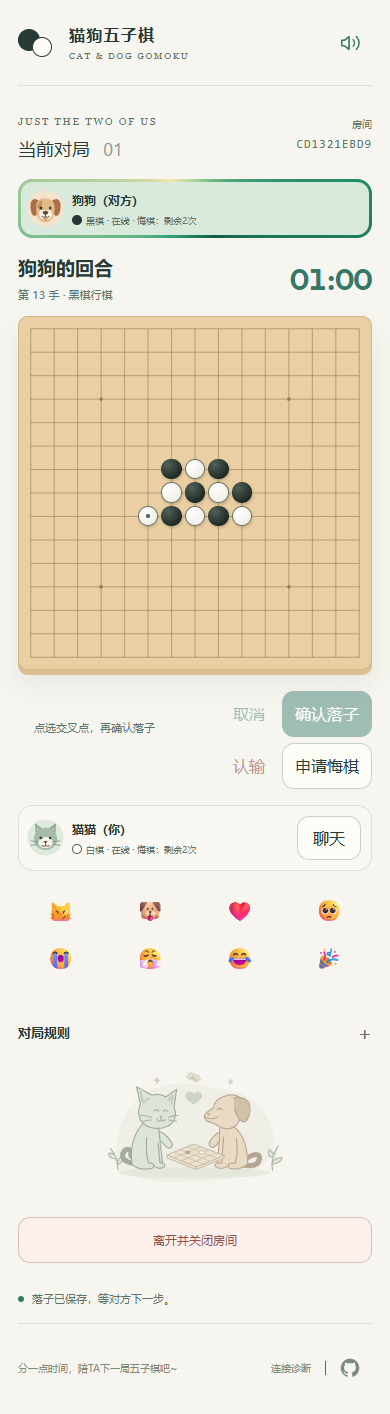
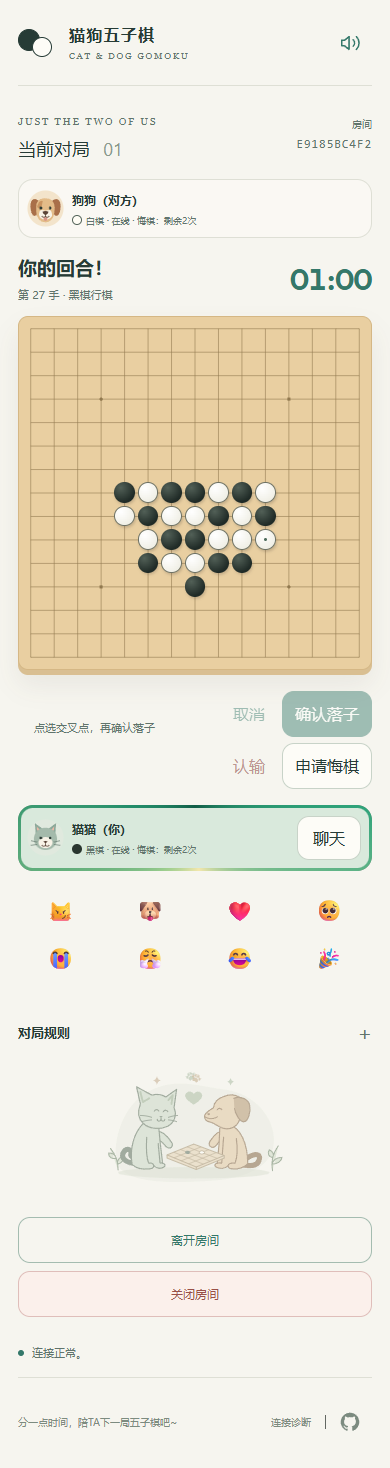
feat: separate leaving and closing rooms

diff --git a/tests/game-e2e/game.spec.ts b/tests/game-e2e/game.spec.ts
@@ -135,6 +135,48 @@ async function play(page: Page, x: number, y: number, touch = false) {
 
 async function finish(contexts: BrowserContext[]) { await Promise.all(contexts.map(c => c.close())); }
 
+test('leaving returns home without closing and closing still requires confirmation', async ({ browser }) => {
+  test.skip(!process.env.GOMOKU_LOCAL_SQL);
+  const { contexts, a, b, errors, state } = await pair(browser);
+  try {
+    const code = await a.locator('#roomCode').textContent();
+    const commands: string[] = [];
+    a.on('request', request => {
+      if (request.url().endsWith('/rpc/gomoku_command')) commands.push(request.postDataJSON().p_action as string);
+    });
+    await play(state().turnSeat === state().seat ? a : b, 7, 7);
+    await expect(b.locator('#board .stone:not(.preview)')).toHaveCount(1);
+    await a.screenshot({ path: 'test-results/screenshots/room-buttons-desktop.png', fullPage: true });
+    await b.screenshot({ path: 'test-results/screenshots/room-buttons-phone.png', fullPage: true });
+    await a.locator('#leave').click();
+    await expect(a.locator('#home')).toBeVisible();
+    await expect(a.locator('#leaveDialog')).not.toBeVisible();
+    await expect(a.locator('#resume')).toBeVisible();
+    await a.reload();
+    await expect(a.locator('#home')).toBeVisible();
+    await a.locator('#resume').click();
+    await expect(a.locator('#roomCode')).toHaveText(code!);
+    await expect(a.locator('#board .stone:not(.preview)')).toHaveCount(1);
+    await expect(b.locator('#gameStatus')).not.toHaveText('房间已关闭');
+    expect(commands).not.toContain('leave');
+    await a.locator('#closeRoom').click();
+    await expect(a.locator('#leaveDialog')).toBeVisible();
+    await a.locator('#stay').click();
+    await expect(a.locator('#leaveDialog')).not.toBeVisible();
+    expect(commands).not.toContain('leave');
+    await a.locator('#closeRoom').click();
+    await a.locator('#confirmLeave').click();
+    await expect(a.locator('#gameStatus')).toHaveText('房间已关闭');
+    await expect(b.locator('#gameStatus')).toHaveText('房间已关闭');
+    expect(commands.filter(action => action === 'leave')).toHaveLength(1);
+    for (const page of [a, b]) {
+      await expect(page.locator('#leave')).toBeHidden();
+      await expect(page.locator('#closeRoom')).toBeHidden();
+    }
+    expect(errors).toEqual([]);
+  } finally { await finish(contexts); }
+});
+
 test('home supports narrow phones and desktop without overflow', async ({ page }) => {
   await enter(page);
   const icon = page.locator('link[rel="icon"]');
@@ -267,7 +309,7 @@ test('invitation follows presence while links and room codes preserve assigned i
     await expect(a.locator('#invitePanel')).toBeHidden();
     await resizeRoom(a, {width:390,height:1000});
     await a.screenshot({path:'test-results/screenshots/invitation-online-mobile.png',fullPage:true});
-    await a.locator('#leave').click(); await a.locator('#confirmLeave').click();
+    await a.locator('#closeRoom').click(); await a.locator('#confirmLeave').click();
     await expect(a.locator('#gameStatus')).toHaveText('房间已关闭');
     await expect(a.locator('#invitePanel')).toBeHidden();
     await b.reload();
@@ -355,7 +397,7 @@ test('two players complete a real game, approve entry, recover a lost acknowledg
     try { await enter(c, `./${new URL(a.url()).hash}`); await expect(c.locator('#notice')).toContainText('已有两位'); }
     finally { await outsider.close(); }
     expect(game.errors).toEqual([]);
-    await a.locator('#leave').click(); await a.locator('#confirmLeave').click();
+    await a.locator('#closeRoom').click(); await a.locator('#confirmLeave').click();
     await expect(b.locator('#gameStatus')).toHaveText('房间已关闭');
     for (const p of [a, b]) expect(await p.evaluate(() => localStorage.getItem('gomoku.room'))).toBeNull();
     let closedRequests = 0;
@@ -521,7 +563,7 @@ test('invalid rooms stop requesting and withdrawn or rejected applications stay 
     release(); await b.unrouteAll({ behavior: 'wait' });
     await expect(b.locator('#pendingPanel')).toBeHidden(); await expect(a.locator('#applicationPanel')).toBeHidden();
     requests = 0; await b.waitForTimeout(6500); expect(requests).toBe(0);
-    await a.locator('#leave').click(); await a.locator('#confirmLeave').click();
+    await a.locator('#closeRoom').click(); await a.locator('#confirmLeave').click();
     expect(errors).toEqual([]);
   } finally { await finish(contexts); }
 });
@@ -640,7 +682,7 @@ test('mouse previews and moves only once after confirmation and server acknowled
     await p.locator('#previousReactions').click();
     await expect.poll(() => reactions.evaluate(node => node.scrollLeft)).toBe(0);
     await p.screenshot({ path:'test-results/screenshots/game-desktop-actions.png', fullPage:true });
-    await p.locator('#leave').click();
+    await p.locator('#closeRoom').click();
     await expect(p.locator('#leaveDialog')).toBeVisible();
     await p.locator('#stay').click();
     await expect(p.locator('#leaveDialog')).not.toBeVisible();

diff --git a/src/game/room-layout.css b/src/game/room-layout.css
@@ -9,6 +9,9 @@
 #asideActivity:not(:has(.aside-block, .replay-area, .rules-block)), #asideExtras:empty,
 #tabletNotices:empty { display: none; }
 #asideCore { display: contents; }
+#closeRoom { display: block; margin-top: 8px; }
+#leave { color: var(--green); border-color: #a4bcb0; background: transparent; }
+#leave:hover:not(:disabled) { background: var(--paper); border-color: #88a796; }
 
 @media (min-width: 600px) {
   .room-layout { --room-layout: stacked; }
@@ -48,13 +51,15 @@
 #room:not([data-layout="phone"]) .replay-row { justify-content: flex-end; }
 
 #room[data-layout="wide"] {
+  --room-action-width: 80px;
   --aside-gap: 8px;
   --panel-space: 16px;
   --board-size: min(620px, calc(100vw - 352px), max(300px, calc(100dvh - 178px)));
   grid-template-columns: var(--board-size) minmax(0, 1fr);
-  row-gap: 12px;
+  row-gap: 14px;
 }
-#room[data-layout="wide"] .room-aside { display: flex; flex-direction: column; gap: 12px; }
+#room[data-layout="wide"] .room-aside { grid-column: 2; grid-row: 1; display: flex; flex-direction: column; gap: 12px; }
+#room[data-layout="wide"] .room-aside > #leave { margin-top: -3px; }
 #room[data-layout="wide"] #asideCore { height: calc(var(--board-size) + var(--heading-height) + var(--heading-gap) + var(--board-shadow)); display: flex; flex-direction: column; gap: var(--aside-gap); }
 #room[data-layout="wide"] #asideTurn { flex-shrink: 0; }
 #room[data-layout="wide"] .turn-bar { margin: 0; }
@@ -76,7 +81,10 @@
 #room[data-layout="wide"] .move-controls > .action-cluster { gap: 12px; }
 #room[data-layout="wide"] .action-cluster #undo, #room[data-layout="wide"] .action-cluster #resign { grid-row: 1; }
 #room[data-layout="wide"] .action-cluster #confirm, #room[data-layout="wide"] .action-cluster #cancel { grid-row: 2; }
-#room[data-layout="wide"] .leave { align-self: flex-end; margin: 0; min-height: 44px; }
+#room[data-layout="wide"] .leave { align-self: flex-end; margin: 0; min-height: 44px; width: var(--room-action-width); translate: 0 4px; }
+#room[data-layout="wide"] .play-area { grid-column: 1; grid-row: 1; }
+#room[data-layout="wide"] > #closeRoom { grid-column: 2; grid-row: 2; justify-self: end; margin-top: -3px; }
+#room[data-layout="wide"] > .connection { grid-column: 1; grid-row: 2; align-self: end; min-height: 0; padding: 0; translate: 0 4px; }
 #room[data-layout="wide"] .move-controls { display: grid; grid-template-columns: max-content minmax(0,1fr); grid-template-rows: 46px 46px; gap: 12px; }
 #room[data-layout="wide"] .move-controls > .action-cluster { grid-column: 1; grid-row: 1 / 3; }
 #room[data-layout="wide"] #selectionHint { grid-column: 2; grid-row: 2; }
@@ -119,10 +127,11 @@
 #room[data-layout="stacked"] .interaction-controls .reactions { display: flex; flex-wrap: nowrap; width: auto; min-width: 0; flex: 0 0 min(373px,calc(round(down,calc(100% - 49px),47px) - 3px)); overflow-x: auto; scrollbar-width: none; overscroll-behavior-x: contain; touch-action: pan-x; }
 #room[data-layout="stacked"] .reactions::-webkit-scrollbar { display: none; }
 #room[data-layout="stacked"] .reactions button { width: 44px; flex: 0 0 44px; scroll-snap-align: start; }
-#room[data-layout="stacked"] .tablet-footer { display: flex; align-items: center; gap: 16px; width: 100%; margin-top: 8px; order: 11; }
+#room[data-layout="stacked"] .tablet-footer { display: grid; grid-template-columns: minmax(0, 1fr) max-content; align-items: center; gap: 8px 16px; width: 100%; margin-top: 8px; order: 11; }
 #room[data-layout="stacked"] .tablet-footer .connection { flex: 1; min-width: 0; padding: 0; }
 #room[data-layout="stacked"] .tablet-footer .connection p { min-width: 0; }
 #room[data-layout="stacked"] .tablet-footer .leave { flex-shrink: 0; align-self: center; margin: 0; white-space: nowrap; }
+#room[data-layout="stacked"] .tablet-footer #closeRoom { grid-column: 2; }
 @container (max-width: 440px) {
   #room[data-layout="stacked"] .action-cluster button { font-size: 14px; padding-inline: 8px; }
   #room[data-layout="stacked"] #chatToggle { padding-inline: 8px; }
@@ -143,7 +152,7 @@
 #room[data-layout="wide"][data-compact="true"] .player .avatar { width: 38px; }
 
 @media (min-width: 800px) and (max-width: 959px) and (max-height: 700px) {
-  #room[data-layout="wide"] { --board-size: min(620px, calc(100vw - 328px), max(300px, calc(100dvh - 120px))); gap: 16px; }
+  #room[data-layout="wide"] { --board-size: min(620px, calc(100vw - 328px), max(300px, calc(100dvh - 120px))); gap: 14px 16px; }
 }
 
 #room[data-layout="wide"][data-art="false"] #asideActivity > #asideExtras { display: none; }

diff --git a/tests/game-e2e/layout.spec.ts b/tests/game-e2e/layout.spec.ts
@@ -115,8 +115,7 @@ test('reaction paging follows visible bounds through smooth scrolling and resizi
       const chat = await page.locator('#chatToggle').boundingBox();
       expect(Math.abs(tip!.x + tip!.width - chat!.x - chat!.width)).toBeLessThan(0.5);
       const leave = (await page.locator('#leave').boundingBox())!;
-      expect(leave.y - chat!.y - chat!.height).toBeLessThanOrEqual(16);
-      expect(leave.y - chat!.y - chat!.height).toBeGreaterThanOrEqual(8);
+      expect(leave.y - chat!.y - chat!.height).toBeCloseTo(14, 0);
       const leftIcon = (await previous.locator('svg').boundingBox())!, bar = (await strip.boundingBox())!;
       expect(Math.abs(bar.x - leftIcon.x - leftIcon.width - (tip!.x - bar.x - bar.width))).toBeLessThan(1);
     }
@@ -467,7 +466,33 @@ test('layout transitions preserve a single set of controls and narrow phone plac
     await page.setViewportSize(size);
     const phone = size.width < 600;
     await expect(page.locator('#room')).toHaveAttribute('data-layout', phone ? 'phone' : size.width >= 960 || size.width >= 800 && size.height <= 700 ? 'wide' : 'stacked');
-    for (const id of ['confirm', 'cancel', 'undo', 'resign', 'opponentPlayer', 'selfPlayer', 'replayArea']) await expect(page.locator(`#${id}`)).toHaveCount(1);
+    for (const id of ['confirm', 'cancel', 'undo', 'resign', 'opponentPlayer', 'selfPlayer', 'replayArea', 'leave', 'closeRoom']) await expect(page.locator(`#${id}`)).toHaveCount(1);
+    const leave = (await page.locator('#leave').boundingBox())!;
+    const close = (await page.locator('#closeRoom').boundingBox())!;
+    expect(close.y).toBeGreaterThanOrEqual(leave.y + leave.height + 8);
+    expect(close.width).toBeCloseTo(leave.width, 0);
+    expect(close.x).toBeCloseTo(leave.x, 0);
+    const tone = await page.locator('#leave').evaluate(e => {
+      const leaveStyle = getComputedStyle(e), chatStyle = getComputedStyle(document.getElementById('chatToggle')!);
+      return { leaveBackground: leaveStyle.backgroundColor, chatBackground: chatStyle.backgroundColor, leaveColor: leaveStyle.color };
+    });
+    expect(tone.leaveBackground).not.toBe(tone.chatBackground);
+    expect(tone.leaveColor).toBe('rgb(52, 120, 106)');
+    if (await page.locator('#room').getAttribute('data-layout') === 'wide') {
+      const chat = (await page.locator('#chatToggle').boundingBox())!;
+      const status = (await page.locator('#connectionBar').boundingBox())!;
+      const rules = (await page.locator('#rules').boundingBox())!;
+      expect(leave.width).toBeCloseTo(chat.width, 0);
+      expect(close.y - leave.y - leave.height, JSON.stringify({ size, chat, leave, close, status })).toBeCloseTo(leave.y - chat.y - chat.height, 0);
+      expect(status.y + status.height).toBeCloseTo(close.y + close.height, 0);
+      expect(status.y).toBeGreaterThanOrEqual(rules.y + rules.height + 8);
+      await page.locator('#rules > summary').click();
+      const openRules = (await page.locator('#rules').boundingBox())!;
+      const openStatus = (await page.locator('#connectionBar').boundingBox())!;
+      expect(openStatus.y).toBeGreaterThanOrEqual(openRules.y + openRules.height + 8);
+      await page.locator('#rules > summary').click();
+      if (size.width === 1280) await page.screenshot({ path: 'test-results/screenshots/room-buttons-aligned-desktop.png', fullPage: true });
+    }
     expect(await page.evaluate(() => document.documentElement.scrollWidth <= innerWidth)).toBe(true);
     if (phone) {
       const [board, opponent, self] = await geometry(page);

diff --git a/src/game/main.ts b/src/game/main.ts
@@ -276,6 +276,7 @@ function render() {
   button('cancelApplication').disabled = busy;
   button('homeReturn').hidden = !s || s.phase !== 'closed';
   button('leave').hidden = !s || s.phase === 'closed';
+  button('closeRoom').hidden = button('leave').hidden;
   if (!s) { updateRoomLayout(''); return; }
   el('round').textContent = String(s.round).padStart(2, '0');
   el('roomCode').textContent = s.code;
@@ -324,7 +325,8 @@ function render() {
   }
   el('resultPanel').hidden = replayStep !== null || !resultKey || dismissedResult === resultKey;
   if (s.application) el('applicantName').textContent = `${s.application.name}想加入你的房间👀请确认是对方本人哦！`;
-  for (const id of ['approve', 'reject', 'leave']) button(id).disabled = busy || !connected || !!uncertain;
+  button('leave').disabled = busy;
+  for (const id of ['approve', 'reject', 'closeRoom']) button(id).disabled = busy || !connected || !!uncertain;
   button('confirm').disabled = !selection || !canMove();
   button('cancel').disabled = !selection || busy;
   button('resign').disabled = !canResign();
@@ -687,7 +689,8 @@ async function copy(id: string, value: string, label: string, success: string) {
 button('invite').onclick = () => { void copy('invite', `${location.origin}${location.pathname}#${snapshot?.code || room}`, '复制邀请链接', '邀请链接复制成功！'); };
 button('copyCode').onclick = () => { if (snapshot) void copy('copyCode', snapshot.code, '复制房间码', '房间码复制成功！'); };
 const leaveDialog = el('leaveDialog') as HTMLDialogElement;
-button('leave').onclick = () => leaveDialog.showModal();
+button('leave').onclick = () => { home(); notice('已离开房间，可以继续上次房间。'); };
+button('closeRoom').onclick = () => leaveDialog.showModal();
 button('stay').onclick = () => leaveDialog.close();
 button('confirmLeave').onclick = () => {
   leaveDialog.close();

diff --git a/game/index.html b/game/index.html
@@ -48,7 +48,8 @@
             <div id="lobbySlot"><div id="lobbyPanel" class="aside-block"><h2 id="lobbyTitle">等另一个人来ing...</h2><p id="lobbyText">把邀请链接发给对方，房主确认后，双方准备就能开局。</p><p id="readyNotice" class="ready-notice" role="status" aria-live="polite" hidden>对方准备好了哦~</p><button id="ready" class="primary wide" disabled>准备好啦！</button><button id="rematch" class="primary wide" hidden>再来一局</button><button id="homeReturn" class="primary wide" hidden>返回首页</button></div></div>
             <div id="invitePanel" class="aside-block"><h2>邀请TA一起下棋吧~</h2><p>复制链接发给对方，也可以直接分享房间码。</p><div class="copy-actions"><button id="invite" aria-live="polite">复制邀请链接</button><button id="copyCode" aria-live="polite">复制房间码</button></div><p id="copyStatus" class="copy-status" role="status" aria-live="polite"></p><textarea id="copyFallback" rows="3" readonly aria-label="邀请链接，长按复制" hidden></textarea></div>
             <details id="rules" class="rules-block" open><summary>对局规则</summary><p>黑棋先手，横竖斜连成五颗或更多就赢。无禁手。</p><p>每步 60 秒，行棋超时判负。断线后暂停，超过 5 分钟未恢复则中止，不计输赢。</p><p>先点选预览，再确认落子。键盘方向键选点，回车预览后确认。</p></details>
-            <button id="leave" class="text-button leave">离开并关闭房间</button>
+            <button id="leave" class="text-button leave">离开房间</button>
+            <button id="closeRoom" class="text-button leave">关闭房间</button>
             <div class="room-companions" id="roomCompanions" aria-hidden="true"><img src="./companions.svg" alt="" width="340" height="220" draggable="false" /></div>
           </aside>
         </section>

diff --git a/src/game/layout.ts b/src/game/layout.ts
@@ -6,7 +6,7 @@ export function setupRoomLayout() {
   const origins = new Map<HTMLElement, Comment>();
   const movable = ['turnBar', 'opponentPlayer', 'selfPlayer', 'interactionControls',
     'moveControls', 'undoPanel', 'rematchPanel', 'applicationPanel',
-    'lobbyPanel', 'invitePanel', 'rules', 'roomCompanions', 'chatToggle', 'connectionBar', 'leave', 'tabletFooter'];
+    'lobbyPanel', 'invitePanel', 'rules', 'roomCompanions', 'chatToggle', 'connectionBar', 'leave', 'closeRoom', 'tabletFooter'];
   for (const id of movable) {
     const node = element(id);
     const marker = document.createComment(`${id} layout origin`);
@@ -90,8 +90,13 @@ export function setupRoomLayout() {
     const tabletActive = mode === 'stacked' && !room.hidden && !element('playArea').hidden;
     element('tabletFooter').hidden = !tabletActive;
     if (tabletActive) {
-      move('connectionBar', 'tabletFooter'); move('leave', 'tabletFooter');
-    } else { restore('connectionBar'); restore('leave'); }
+      move('connectionBar', 'tabletFooter'); move('leave', 'tabletFooter'); move('closeRoom', 'tabletFooter');
+    } else {
+      restore('leave');
+      if (mode === 'wide' && !room.hidden && !element('playArea').hidden) {
+        move('connectionBar', 'room'); move('closeRoom', 'room');
+      } else { restore('connectionBar'); restore('closeRoom'); }
+    }
     const dialog = element('negotiationDialog') as HTMLDialogElement;
     const negotiating = mode !== 'phone' && !room.hidden && !element('undoPanel').hidden;
     const chatPanel = element('chatPanel');

diff --git a/src/game/chat.css b/src/game/chat.css
@@ -1,6 +1,6 @@
 #chatToggle{min-height:44px;min-width:88px;font-size:16px;padding:8px 12px;white-space:nowrap}
 #chatToggle.has-unread{background:#d9e9dc}
-#room[data-layout="wide"] #chatToggle{min-width:80px;width:max-content;padding-inline:8px;grid-column:2;grid-row:2;justify-self:end;align-self:center}
+#room[data-layout="wide"] #chatToggle{min-width:var(--room-action-width);width:var(--room-action-width);padding-inline:8px;grid-column:2;grid-row:2;justify-self:end;align-self:center}
 #room[data-layout="wide"] #selectionHint{justify-content:flex-start;padding-right:106px;min-width:0;line-height:1.4}
 #room:not([data-layout="wide"]) .interaction-controls{flex-direction:column;align-items:stretch;gap:8px}
 #room:not([data-layout="wide"]) #chatToggle{align-self:flex-end}

diff --git a/README.md b/README.md
@@ -19,7 +19,7 @@ The hosted game uses a CloudBase prepaid environment with limited validity and q
 - Rematches with swapped colors, eight fixed reactions, and sound effects with a persistent mute setting, including an accelerating warning during the final ten seconds of a turn.
 - Room text chat for seated players, with unread indicators and retryable sends. Messages are limited to 100 characters; the latest 50 survive refresh and rematches.
 
-There is no matchmaking, spectator mode, or computer opponent. An invitation grants permission to apply, not ownership of a player's seat. Returning players use the same browser session; another browser cannot take over their identity. Leaving closes the room for both players, and rooms expire after 24 hours.
+There is no matchmaking, spectator mode, or computer opponent. An invitation grants permission to apply, not ownership of a player's seat. Returning players use the same browser session; another browser cannot take over their identity. Leaving returns to the home page and keeps the option to resume the room; closing requires confirmation and closes the room for both players. Rooms expire after 24 hours.
 
 The responsive interface adapts the board, player cards, and controls to phones, tablets, desktops, and low-height windows. Chat opens in an overlay, keeping the board available during conversation.
 
@@ -124,7 +124,7 @@ Invitations use URL fragments and need no custom server routing. Save the previo
 
 ## Screenshots
 
-Game views at representative browser viewport sizes. Phone and replay images show the full page.
+Full-page views from a local two-player game at representative browser viewport sizes. Tablet and phone views use browser emulation. The room controls provide separate actions for leaving and closing the room.
 
 Desktop (1280×844), portrait tablet (768×1024), and phone (390×844).
 

diff --git a/README.zh-CN.md b/README.zh-CN.md
@@ -19,7 +19,7 @@
 - 双方同意后换色再来一局，另有八种固定表情、本地音效和可记住设置的静音开关，包括回合最后 10 秒逐渐加快的警示音。
 - 仅入座玩家可使用文字聊天，支持未读提示与失败重试。单条最多 100 字，最近 50 条在刷新和同房间再来一局后保留。
 
-不提供匹配、观战或人机对战。邀请用于申请加入，不是玩家身份凭证。恢复对局需要原浏览器会话，其他浏览器不能接管身份。主动离开会为双方关闭房间，房间在 24 小时后过期。
+不提供匹配、观战或人机对战。邀请用于申请加入，不是玩家身份凭证。恢复对局需要原浏览器会话，其他浏览器不能接管身份。“离开房间”返回主页，保留继续上次房间的入口；“关闭房间”经确认后为双方关闭房间。房间在 24 小时后过期。
 
 响应式界面适配手机、平板、电脑与低高度窗口，按可用空间安排棋盘、人物卡和操作区。聊天以浮层打开，交流时仍可查看棋盘。
 
@@ -124,7 +124,7 @@ tcb hosting deploy ./dist/cloudbase/game gomoku --env-id YOUR_ENV_ID --safe --ve
 
 ## 截图
 
-不同浏览器视口下的游戏界面，手机与回放图为全页截图。
+本地双人对局在不同浏览器视口下的全页截图，平板和手机采用浏览器模拟。房间操作区分别提供离开房间和关闭房间按钮。
 
 电脑（1280×844）、平板竖屏（768×1024）与手机（390×844）。
 
